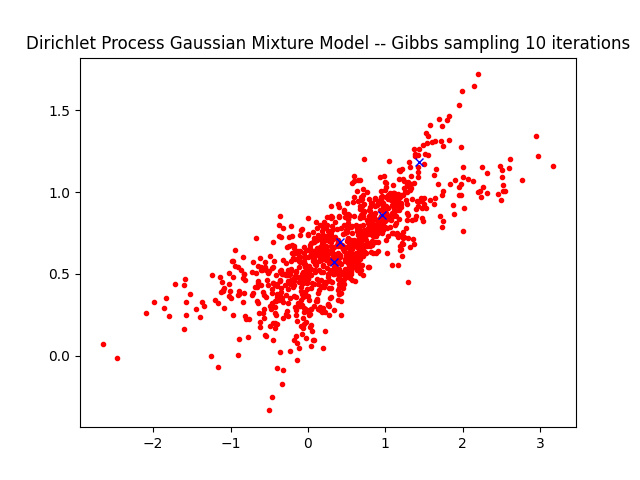
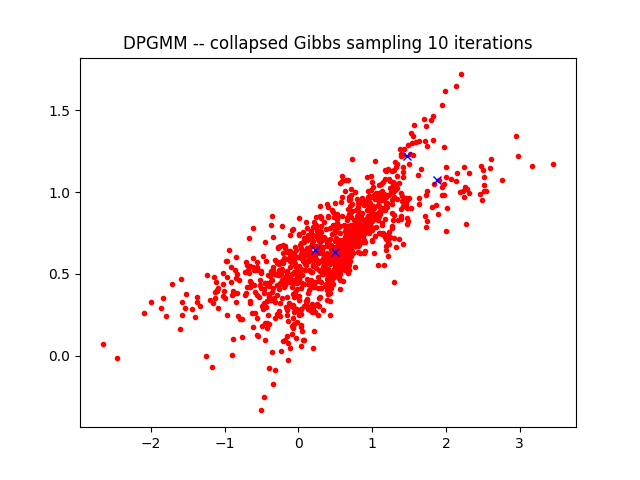
Update

diff --git a/collapsed_gibbs_dirichlet_process.py b/collapsed_gibbs_dirichlet_process.py
@@ -157,7 +157,7 @@ def fit_dp(data, alpha, epsilon, m0, V0, S0, nu0, num_iters):
 		sigma_new = []
 
 		for k in range(K):
-			if N[k] > num_dim:
+			if N[k] > num_dim: # Threshold is number of dimensions to avoid negative definite covariance matrix
 				x = data[z == k, :]
 				x_bar = np.sum(x, axis = 0) / x.shape[0]
 				cov = np.matmul((x - x_bar).transpose(), x - x_bar) / x.shape[0]
@@ -166,7 +166,7 @@ def fit_dp(data, alpha, epsilon, m0, V0, S0, nu0, num_iters):
 				mu_new.append(x_bar)
 				sigma_new.append(cov)
 
-		if N[K] > num_dim:
+		if N[K] > num_dim: # Threshold is number of dimensions to avoid negative definite covariance matrix
 			pi_new.append(alpha / (alpha + num_data - 1))
 			mu_new.append(m0)
 			sigma_new.append(S0 / (nu0 + num_dim + 1))
@@ -207,7 +207,7 @@ K = len(mean_)
 print("Final number of components:", K)
 for k in range(K):
 	plt.plot(mean_[k][0], mean_[k][1], 'bx')
-plt.title("Dirichlet Process Gaussian Mixture Model -- Gibbs sampling " + str(num_iters) + " iterations")
+plt.title("DPGMM -- collapsed Gibbs sampling " + str(num_iters) + " iterations")
 plt.show()
 
 
@@ -239,5 +239,5 @@ plt.show()
 
 Z = np.log(density(X, Y, pi_, mean_, cov_))
 plt.contour(X, Y, Z, colors = 'black')
-plt.title('Dirichlet Process density')
+plt.title('DPGMM density -- collapsed Gibbs sampling')
 plt.show()
